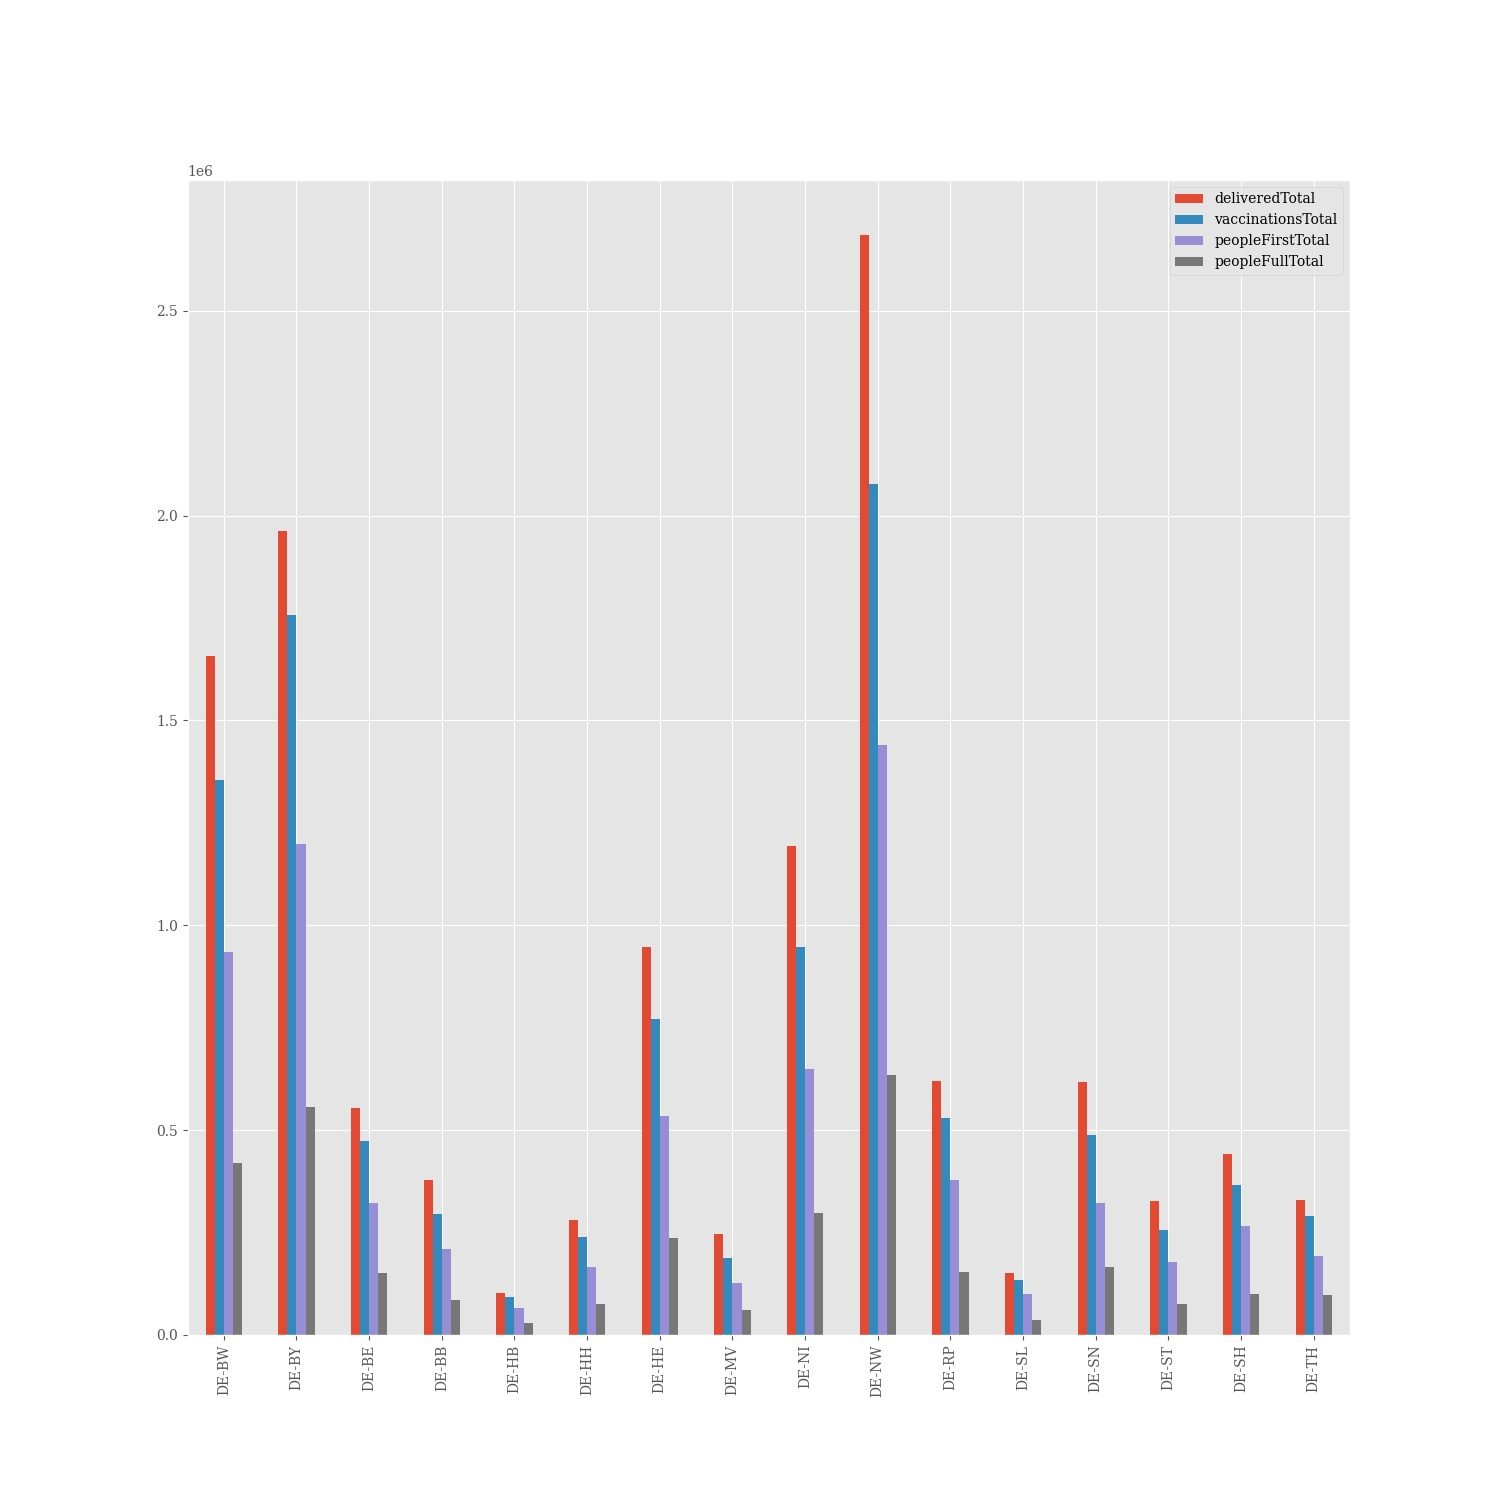
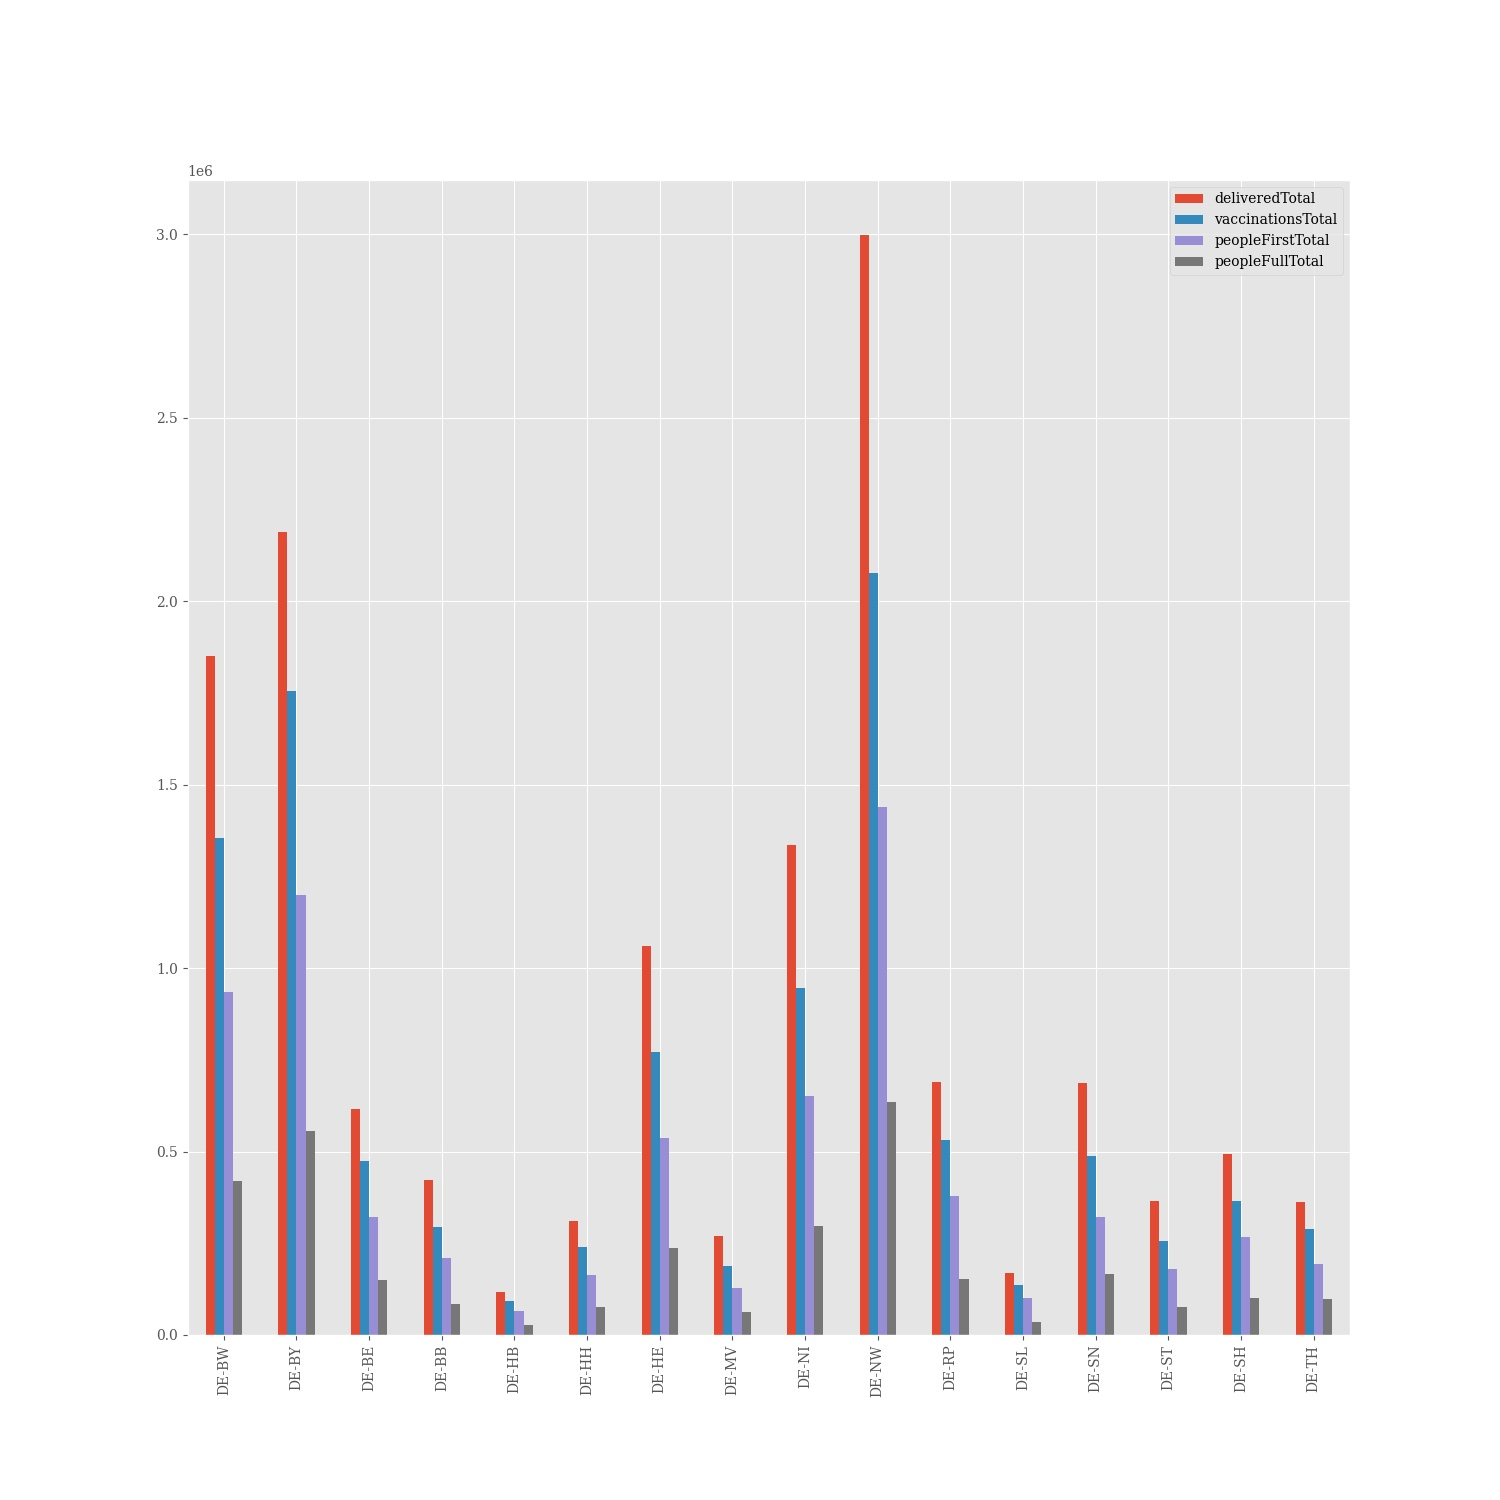
Crontab commit

diff --git a/Readme.md b/Readme.md
@@ -17,22 +17,22 @@ Astrazeneca | 1781168
 ## Bundesländer
 **Bundesland** | **Prozent von gelieferten Imfdosen verimpft**
 -------- | :--------:
-DE-BW | 81.78 %
-DE-BY | 89.49 %
-DE-BE | 85.64 %
-DE-BB | 78.06 %
-DE-HB | 91.60 %
-DE-HH | 85.86 %
-DE-HE | 81.45 %
-DE-MV | 76.64 %
-DE-NI | 79.26 %
-DE-NW | 77.32 %
-DE-RP | 85.44 %
-DE-SL | 89.02 %
-DE-SN | 78.93 %
-DE-ST | 77.93 %
-DE-SH | 82.95 %
-DE-TH | 87.77 %
+DE-BW | 73.19 %
+DE-BY | 80.21 %
+DE-BE | 76.81 %
+DE-BB | 69.80 %
+DE-HB | 80.47 %
+DE-HH | 77.40 %
+DE-HE | 72.77 %
+DE-MV | 69.63 %
+DE-NI | 70.88 %
+DE-NW | 69.24 %
+DE-RP | 76.84 %
+DE-SL | 80.31 %
+DE-SN | 70.95 %
+DE-ST | 69.67 %
+DE-SH | 74.07 %
+DE-TH | 79.79 %
 ## Graphen
 <img src="Impfungen-Corona-01.jpg" alt="Impf Übersicht" title="Impf Übersicht" />
 <img src="Impfungen-Corona-02.jpg" alt="Impfquote" title="optionaler Titel" />
